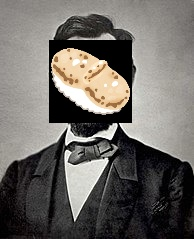
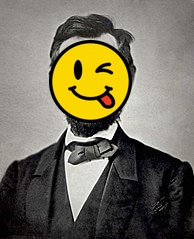
opencv11

Changed region(s): [[0.2474, 0.1464, 0.6804, 0.5272]]

diff --git a/main.py b/main.py
@@ -14,6 +14,7 @@ from linebot.models import (ImageMessage, ImageSendMessage, MessageEvent,
 import cv2
 import numpy as np
 import random
+from PIL import Image, ImageDraw, ImageFilter
 
 app = Flask(__name__)
 
@@ -43,6 +44,7 @@ def change_kaonasi(src_image_path,main_image_path,preview_image_path):
     cascade_file = "haarcascade_frontalface_default.xml"
     face_cascade = cv2.CascadeClassifier(cascade_file)
     img = cv2.imread(str(src_image_path))
+    back_im=Image.open(str(src_image_path))
 
     # グレースケール変換
     gray = cv2.cvtColor(img, cv2.COLOR_BGR2GRAY)
@@ -52,16 +54,22 @@ def change_kaonasi(src_image_path,main_image_path,preview_image_path):
     for (x,y,w,h) in faces:
         #cv2.rectangle(img,(x,y),(x+w,y+h),(255,0,0),2)
         face_count+=1
-        img_kaonasi_url="./img/"+str(random.randrange(10))+".jpg"
-        img_kaonasi = cv2.imread(img_kaonasi_url)
+        #img_kaonasi_url="./img/"+str(random.randrange(10))+".jpg"
+        #img_kaonasi = cv2.imread(img_kaonasi_url)
+        img_kaonasi_url="./img/"+str(random.randrange(10))+".png"
+        im2 = Image.open(img_kaonasi_url)
+        im2=im2.resize((w, h))
+        back_im.paste(im2, (x, y),mask=im2)
     
         # 顔に合ったサイズに隠す用画像をリサイズする
-        img_kaonasi2 =cv2.resize(img_kaonasi ,(w, h))
+        #img_kaonasi2 =cv2.resize(img_kaonasi ,(w, h))
         #img_kaonasi2 = img_kaonasi.resize((w, h))
-        img[y:y+h,x:x+w] = img_kaonasi2
+        #img[y:y+h,x:x+w] = img_kaonasi2
         #img[x:x+w, y:y+h] = img_kaonasi2
-    cv2.imwrite(main_image_path,img)
-    cv2.imwrite(preview_image_path,img)
+    back_im.save(main_image_path, quality=95)
+    back_im.save(preview_image_path, quality=95)
+    #cv2.imwrite(main_image_path,img)
+    #cv2.imwrite(preview_image_path,img)
 
 @app.route("/")
 def hello_world():

diff --git a/debug.py b/debug.py
@@ -6,6 +6,7 @@ from typing import List
 import cv2
 import numpy as np
 import random
+from PIL import Image, ImageDraw, ImageFilter
 
 def change_kaonasi(src_image_path):
     face_count=0
@@ -13,6 +14,8 @@ def change_kaonasi(src_image_path):
     cascade_file = "haarcascade_frontalface_default.xml"
     face_cascade = cv2.CascadeClassifier(cascade_file)
     img = cv2.imread(str(src_image_path))
+    back_im=Image.open(str(src_image_path))
+    #background = Image.new("RGB", image.size, (255, 255, 255))
 
     # グレースケール変換
     gray = cv2.cvtColor(img, cv2.COLOR_BGR2GRAY)
@@ -23,17 +26,15 @@ def change_kaonasi(src_image_path):
         #cv2.rectangle(img,(x,y),(x+w,y+h),(255,0,0),2)
         face_count+=1
         img_kaonasi_url="./img/"+str(random.randrange(10))+".png"
-        img_kaonasi = cv2.imread(img_kaonasi_url)
-    
-        # 顔に合ったサイズに隠す用画像をリサイズする
-        img_kaonasi2 =cv2.resize(img_kaonasi ,(w, h))
-        #img_kaonasi2 = img_kaonasi.resize((w, h))
-        img[y:y+h,x:x+w] = img_kaonasi2
-        #img[x:x+w, y:y+h] = img_kaonasi2
-    cv2.imwrite("a.jpg",img)
-    cv2.imwrite("b.jpg",img)
+        im2 = Image.open(img_kaonasi_url)
+        im2=im2.resize((w, h))
+        back_im.paste(im2, (x, y),mask=im2)
+    back_im.save("a.jpg", quality=95)
+    #cv2.imwrite("a.jpg",img)
+    #cv2.imwrite("b.jpg",img)
     return 1
 
 src_image_path="president.jpg"
 a=change_kaonasi(src_image_path)
 print(a)
+
